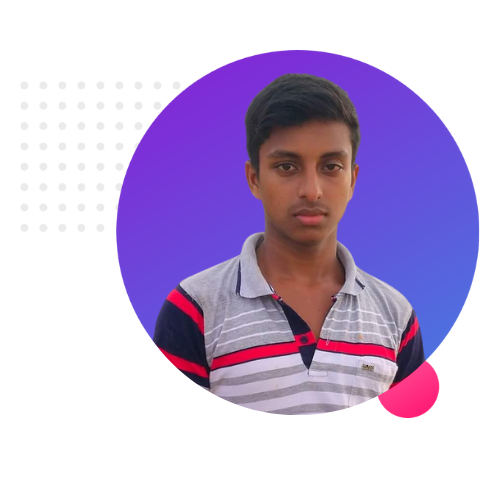
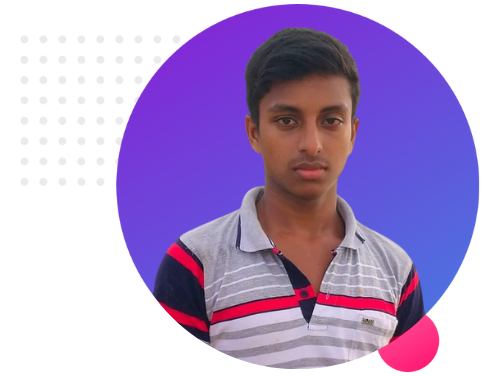
top bannar add

diff --git a/index.html b/index.html
@@ -11,18 +11,31 @@
     <link rel="stylesheet" href="style.css">
 </head>
 <body>
-    <section>
-            <div>
+    <section class="top-bannar">
+            <div class="half-width">
                 <h1> Welcome To </h1>
                 <h1> <span>Abdur Rahim</span> World </h1>
                 <h3> Digital Marketing </h3>
                 <p>I have more than three years of experience as a         professional Digital Marker. I love to work. I can help you plan your work for Digital Marketing. I have been working successfully for the Lead Generation.I will work as social media manager at Expert. Facebook Ads Campine ran Instagram marketing manager, LinkedIn manager, Twitter marketing manager, Pinterest marketing manager.</p>
-                <a target="_blank" href="https://www.linkedin.com/in/md-abdur-rahim-09423b223/">HIRE ME</a>
+                <a class="link-button" target="_blank" href="https://www.linkedin.com/in/md-abdur-rahim-09423b223/">HIRE ME</a>
         </div>
-        <div>
-            <img  src="imgas/rahim.png" alt="">
+        <div class="half-width">
+            <img  src="imgas/rahim 2.png" alt="">
         </div>
    </section>
+   <section>
         
+        <div class="half-width">
+            <img  src="imgas/rahim.png" alt="">
+        </div>
+        <div class="half-width">
+           <h2>Dream Big</h2> 
+           <h3>Become a web developer</h3>
+           <p>I already learned the basic HTML and CSS. I can build any simple website. I can even teach my grandma how to make simple website. My goal is to build 3 websites and learn advanced topics.</p>
+           <a class="link-button" href="#"> DOWNLOAD RESUME </a>
+        </div> 
+   </section>
+
+   
 </body>
 </html>

diff --git a/style.css b/style.css
@@ -1,9 +1,36 @@
 body{
     font-family: 'Poppins', sans-serif;
+    margin: 0;
 }
 h1{
     font-size: 50px ;
 }
 span{
     color: orange;
+}
+section{
+    display: flex;
+}
+.half-width{
+    width: 50%;
+    padding-left: 5%;
+}
+.half-width p{
+    text-align: justify ;
+}
+.half-width img{
+    width: 90%;
+}
+.link-button{
+    text-decoration: none;
+    background-color: orange ;
+    background-image: linear-gradient(orange, tomato);
+    color: white;
+    font-weight: 700;
+    padding: 10px 40px ;
+    border-radius: 5px ;
+}
+.top-bannar{
+    background-image: url(imgas/top-banner.png);
+    background-repeat: no-repeat;  
 }
